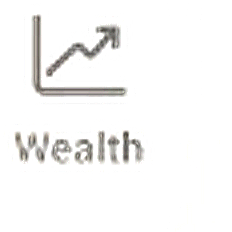
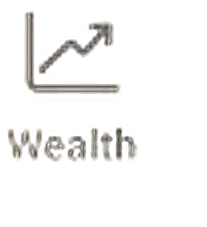
Align all navigation artwork to one baseline

Changed region(s): [[0.1159, 0.0308, 0.5797, 0.4317], [0.2899, 0.5551, 0.6667, 0.7093], [0.029, 0.5551, 0.2609, 0.7093]]

diff --git a/iphone17-viewer.html b/iphone17-viewer.html
@@ -136,7 +136,7 @@
   <nav class="viewer-bar" aria-label="iPhone 17 viewer controls">
     <button class="active" type="button" data-screen="home">Home</button>
     <button type="button" data-screen="intro">Intro</button>
-    <a href="./index.html?screen=1&app=1&viewer=1&v=62" target="_blank" rel="noreferrer">Open</a>
+    <a href="./index.html?screen=1&app=1&viewer=1&v=63" target="_blank" rel="noreferrer">Open</a>
   </nav>
 
   <main class="device-wrap" aria-label="iPhone 17 viewport">
@@ -144,7 +144,7 @@
       <iframe
         id="phoneFrame"
         title="iPhone 17 app preview"
-        src="./index.html?screen=1&app=1&viewer=1&v=62"
+        src="./index.html?screen=1&app=1&viewer=1&v=63"
         width="1206"
         height="2622"
       ></iframe>
@@ -162,8 +162,8 @@
       document.documentElement.style.setProperty("--viewer-scale", Math.max(.1, scale).toFixed(5));
     };
     const urls = {
-      home: "./index.html?screen=1&app=1&viewer=1&v=62",
-      intro: "./index.html?app=1&viewer=1&v=62"
+      home: "./index.html?screen=1&app=1&viewer=1&v=63",
+      intro: "./index.html?app=1&viewer=1&v=63"
     };
 
     buttons.forEach((button) => {

diff --git a/index.html b/index.html
@@ -857,14 +857,6 @@
       max-width: 88px;
       object-fit: contain;
     }
-    .nav-item [data-icon-slot="navWealthIcon"],
-    .nav-item [data-icon-slot="navRewardsIcon"],
-    .nav-item [data-icon-slot="navServicesIcon"] {
-      width: auto;
-      height: 78px;
-      max-width: 104px;
-      margin-top: -10px;
-    }
     .editor-panel {
       position: fixed;
       top: 14px;
